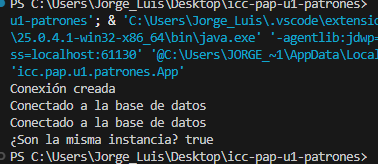
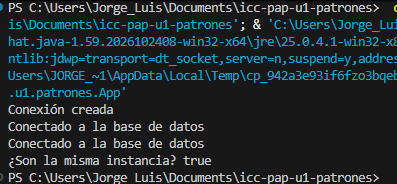
Sistema de gestión de pedidos

diff --git a/app/src/main/java/icc/pap/u1/patrones/App.java b/app/src/main/java/icc/pap/u1/patrones/App.java
@@ -1,5 +1,9 @@
 package icc.pap.u1.patrones;
 
+import icc.Practica.gestionpedidos.Configuracion;
+import icc.Practica.gestionpedidos.FabricaDigital;
+import icc.Practica.gestionpedidos.FabricaPedido;
+import icc.Practica.gestionpedidos.FabricaTienda;
 import icc.pap.u1.patrones.creacionales.SingletonDemo;
 import icc.pap.u1.patrones.creacionales.builder.Pizza;
 import icc.pap.u1.patrones.creacionales.builder.PizzaBuilder;
@@ -7,9 +11,34 @@ import icc.pap.u1.patrones.creacionales.builder.PizzaBuilder;
 public class App {
 
     public static void main(String[] args) {
-        runSingleton();//Corre el programa
+        //runSingleton();//Corre el programa
         //runFactoryMethod();
-        runBuilder();
+        //runBuilder();
+        runPedidos();//Trabajo
+    }
+
+    private static void runPedidos(){
+        // Singleton: obtenemos la configuración
+        Configuracion config = Configuracion.getInstancia();
+        System.out.println("Configuración del sistema");
+        System.out.println("Impuesto: " + config.getImpuesto() + "%");
+
+        // Factory Method: una fábrica por cada tipo de pedido
+        FabricaPedido fabricaTienda = new FabricaTienda();
+        FabricaPedido fabricaDigital = new FabricaDigital();
+
+        System.out.println();
+        System.out.println("--- Pedido presencial ---");
+        fabricaTienda.registrarYProcesar("P001", "Ana Torres", 100.00);
+
+        System.out.println();
+        System.out.println("--- Pedido en línea ---");
+        fabricaDigital.registrarYProcesar("P002", "Juan Pérez", 200.00);
+
+        // Comprobamos que es la misma instancia
+        Configuracion otra = Configuracion.getInstancia();
+        System.out.println();
+        System.out.println("Configuración compartida: " + (config == otra));
     }
 
     public static void runSingleton() {

diff --git a/app/src/main/java/icc/Practica/gestionpedidos/Pedido.java b/app/src/main/java/icc/Practica/gestionpedidos/Pedido.java
@@ -1,0 +1,41 @@
+package icc.Practica.gestionpedidos;
+
+/**
+ * Clase base de todos los pedidos.
+ * Tiene los datos comunes y calcula el total con el impuesto.
+ * Cada tipo de pedido decide cómo generar su comprobante.
+ */
+public abstract class Pedido {
+
+    private String codigo;
+    private String cliente;
+    private double subtotal;
+
+    public Pedido(String codigo, String cliente, double subtotal) {
+        this.codigo = codigo;
+        this.cliente = cliente;
+        this.subtotal = subtotal;
+    }
+
+    public double calcularImpuesto() {
+        // Usa la configuración compartida (Singleton)
+        double porcentaje = Configuracion.getInstancia().getImpuesto();
+        return subtotal * porcentaje / 100;
+    }
+
+    public double calcularTotal() {
+        return subtotal + calcularImpuesto();
+    }
+
+    public void procesar() {
+        System.out.println("Código: " + codigo);
+        System.out.println("Cliente: " + cliente);
+        System.out.printf("Subtotal: ", subtotal);
+        System.out.printf("Impuesto: ", calcularImpuesto());
+        System.out.printf("Total: ", calcularTotal());
+        generarComprobante();
+    }
+
+    // Cada hijo lo implementa a su manera
+    protected abstract void generarComprobante();
+}

diff --git a/app/src/main/java/icc/pap/u1/patrones/factoryMethod/ImportadorPuntoComa.java b/app/src/main/java/icc/pap/u1/patrones/factoryMethod/ImportadorPuntoComa.java
@@ -1,24 +1,8 @@
 package icc.pap.u1.patrones.factoryMethod;
 
-import java.util.ArrayList;
-import java.util.List;
-
 public class ImportadorPuntoComa extends Importador {
-    // FACTORY METHOD
-    protected  abstract LecturaLinea crearLector();
-    
-    public final List<Lectura> importacion(List<String> lecturas){
-        LecturaLinea lector = crearLector();
-        //imPC -> ImportadorPuntoComa -> LecturaPuntoComa
-        List<Lectura> resultado = new ArrayList<>();
-        for(String lectura : lecturas){
-            if (lectura.isBlank()) continue;
-            try{
-                resultado.add(lector.leer(lectura));
-            }catch(Exception e){
-                throw new IllegalArgumentException("linea mal formada");
-            }
-        }
-        return resultado;
+    @Override
+    protected LecturaLinea crearLector() {
+        return new LecturaPuntoComa();
     }
 }

diff --git a/app/src/main/java/icc/Practica/gestionpedidos/Configuracion.java b/app/src/main/java/icc/Practica/gestionpedidos/Configuracion.java
@@ -1,0 +1,31 @@
+package icc.Practica.gestionpedidos;
+
+/**
+ * PATRÓN 1: SINGLETON
+ * Solo puede existir UN objeto de esta clase en todo el programa.
+ * Guarda el porcentaje de impuesto que usan todos los pedidos.
+ */
+public class Configuracion {
+
+    // Se crea una sola vez, apenas se carga la clase
+    private static final Configuracion instancia = new Configuracion();
+
+    private double impuesto = 15.0;
+
+    // Constructor privado: nadie fuera puede hacer "new Configuracion()"
+    private Configuracion() {
+    }
+
+    // Única forma de obtener la configuración
+    public static Configuracion getInstancia() {
+        return instancia;
+    }
+
+    public double getImpuesto() {
+        return impuesto;
+    }
+
+    public void setImpuesto(double impuesto) {
+        this.impuesto = impuesto;
+    }
+}

diff --git a/app/src/main/java/icc/Practica/gestionpedidos/FabricaPedido.java b/app/src/main/java/icc/Practica/gestionpedidos/FabricaPedido.java
@@ -1,0 +1,20 @@
+package icc.Practica.gestionpedidos;
+
+/**
+ * PATRÓN 2: FACTORY METHOD
+ * Define el método "crearPedido", que cada fábrica hija implementa
+ * para devolver el tipo de pedido que le corresponde.
+ * El resto del programa solo trabaja con "Pedido", sin saber cuál es.
+ */
+public abstract class FabricaPedido {
+
+    // Método fábrica: lo implementan las clases hijas
+    public abstract Pedido crearPedido(String codigo, String cliente, double subtotal);
+
+    // Crea el pedido y lo procesa
+    public Pedido registrarYProcesar(String codigo, String cliente, double subtotal) {
+        Pedido pedido = crearPedido(codigo, cliente, subtotal);
+        pedido.procesar();
+        return pedido;
+    }
+}

diff --git a/app/src/main/java/icc/Practica/gestionpedidos/PedidoDigital.java b/app/src/main/java/icc/Practica/gestionpedidos/PedidoDigital.java
@@ -1,0 +1,14 @@
+package icc.Practica.gestionpedidos;
+
+/** Pedido hecho por la plataforma digital. */
+public class PedidoDigital extends Pedido {
+
+    public PedidoDigital(String codigo, String cliente, double subtotal) {
+        super(codigo, cliente, subtotal);
+    }
+
+    @Override
+    protected void generarComprobante() {
+        System.out.println("Confirmación digital generada.");
+    }
+}

diff --git a/app/src/main/java/icc/Practica/gestionpedidos/PedidoTienda.java b/app/src/main/java/icc/Practica/gestionpedidos/PedidoTienda.java
@@ -1,0 +1,14 @@
+package icc.Practica.gestionpedidos;
+
+/** Pedido hecho directamente en la tienda. */
+public class PedidoTienda extends Pedido {
+
+    public PedidoTienda(String codigo, String cliente, double subtotal) {
+        super(codigo, cliente, subtotal);
+    }
+
+    @Override
+    protected void generarComprobante() {
+        System.out.println("Comprobante generado en tienda.");
+    }
+}

diff --git a/app/src/main/java/icc/Practica/gestionpedidos/FabricaDigital.java b/app/src/main/java/icc/Practica/gestionpedidos/FabricaDigital.java
@@ -1,0 +1,9 @@
+package icc.Practica.gestionpedidos;
+
+public class FabricaDigital extends FabricaPedido {
+
+    @Override
+    public Pedido crearPedido(String codigo, String cliente, double subtotal) {
+        return new PedidoDigital(codigo, cliente, subtotal);
+    }
+}

diff --git a/app/src/main/java/icc/Practica/gestionpedidos/FabricaTienda.java b/app/src/main/java/icc/Practica/gestionpedidos/FabricaTienda.java
@@ -1,0 +1,9 @@
+package icc.Practica.gestionpedidos;
+
+public class FabricaTienda extends FabricaPedido {
+
+    @Override
+    public Pedido crearPedido(String codigo, String cliente, double subtotal) {
+        return new PedidoTienda(codigo, cliente, subtotal);
+    }
+}

diff --git a/app/bin/main/icc/Practica/gestionpedidos/README.md b/app/bin/main/icc/Practica/gestionpedidos/README.md
@@ -1,0 +1,18 @@
+# Sistema de gestión de pedidos (Trabajo)
+
+Una aplicación en Java que registra y procesa pedidos presenciales y en línea, aplicando el impuesto configurado.
+
+# Patrones seleccionados
+
+1. **Singleton** |Configuracion|
+2. **Factory Method** |FabricaPedido, FabricaTienda, FabricaDigital|
+
+## Por qué Singleton
+El sistema dice que necesita una configuración de impuesto compartida por todos los componentes y una única instancia que la administre, para evitar inconsistencias. El Singleton garantiza que solo exista un objeto Configuracion accesible desde todo el programa.
+
+## Por qué Factory Method
+Los pedidos presenciales y en línea comparten datos, pero cada uno genera un comprobante distinto, y la empresa quiere agregar nuevas modalidades sin modificar el código principal. Con Factory Method, cada fábrica decide qué pedido crear y el resto del programa solo usa Pedido.
+
+## Se ejecuta y compila asi:
+![alt text](../../pap/u1/patrones/evidencias/image2.png)
+

diff --git a/app/src/main/java/icc/Practica/gestionpedidos/README.md b/app/src/main/java/icc/Practica/gestionpedidos/README.md
@@ -1,0 +1,18 @@
+# Sistema de gestión de pedidos (Trabajo)
+
+Una aplicación en Java que registra y procesa pedidos presenciales y en línea, aplicando el impuesto configurado.
+
+# Patrones seleccionados
+
+1. **Singleton** |Configuracion|
+2. **Factory Method** |FabricaPedido, FabricaTienda, FabricaDigital|
+
+## Por qué Singleton
+El sistema dice que necesita una configuración de impuesto compartida por todos los componentes y una única instancia que la administre, para evitar inconsistencias. El Singleton garantiza que solo exista un objeto Configuracion accesible desde todo el programa.
+
+## Por qué Factory Method
+Los pedidos presenciales y en línea comparten datos, pero cada uno genera un comprobante distinto, y la empresa quiere agregar nuevas modalidades sin modificar el código principal. Con Factory Method, cada fábrica decide qué pedido crear y el resto del programa solo usa Pedido.
+
+## Se ejecuta y compila asi:
+![alt text](../../pap/u1/patrones/evidencias/image2.png)
+
